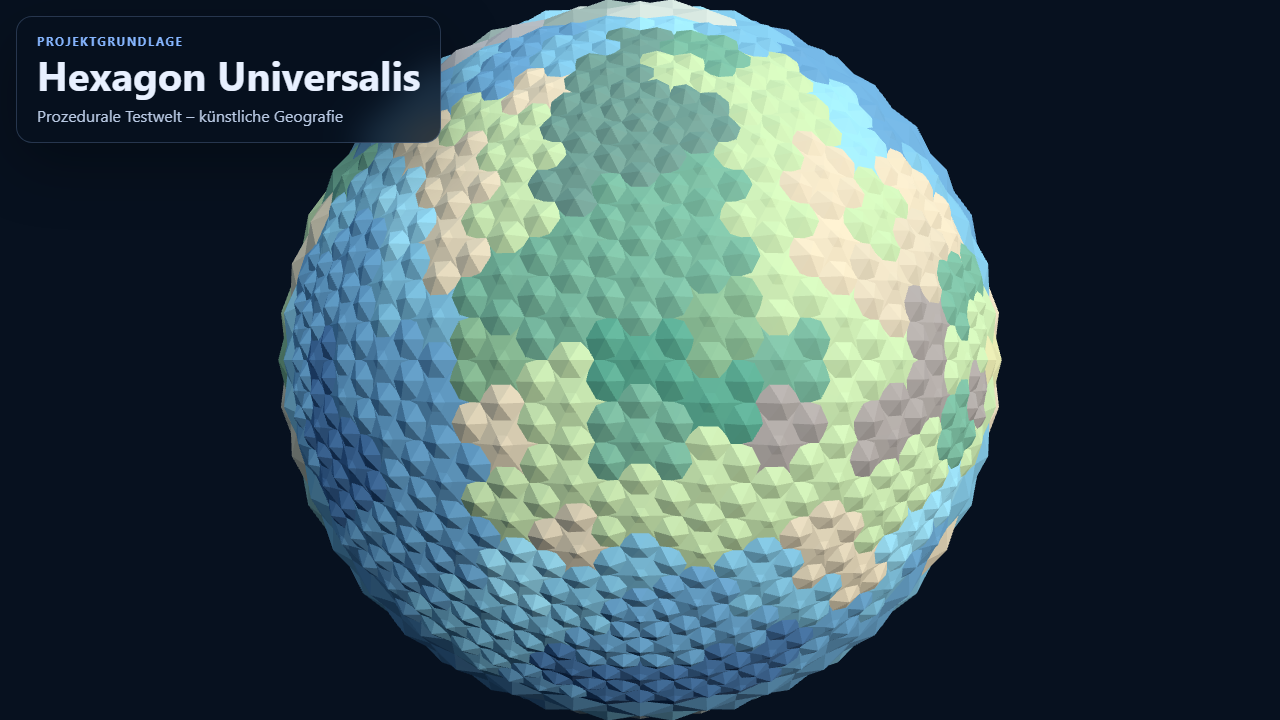
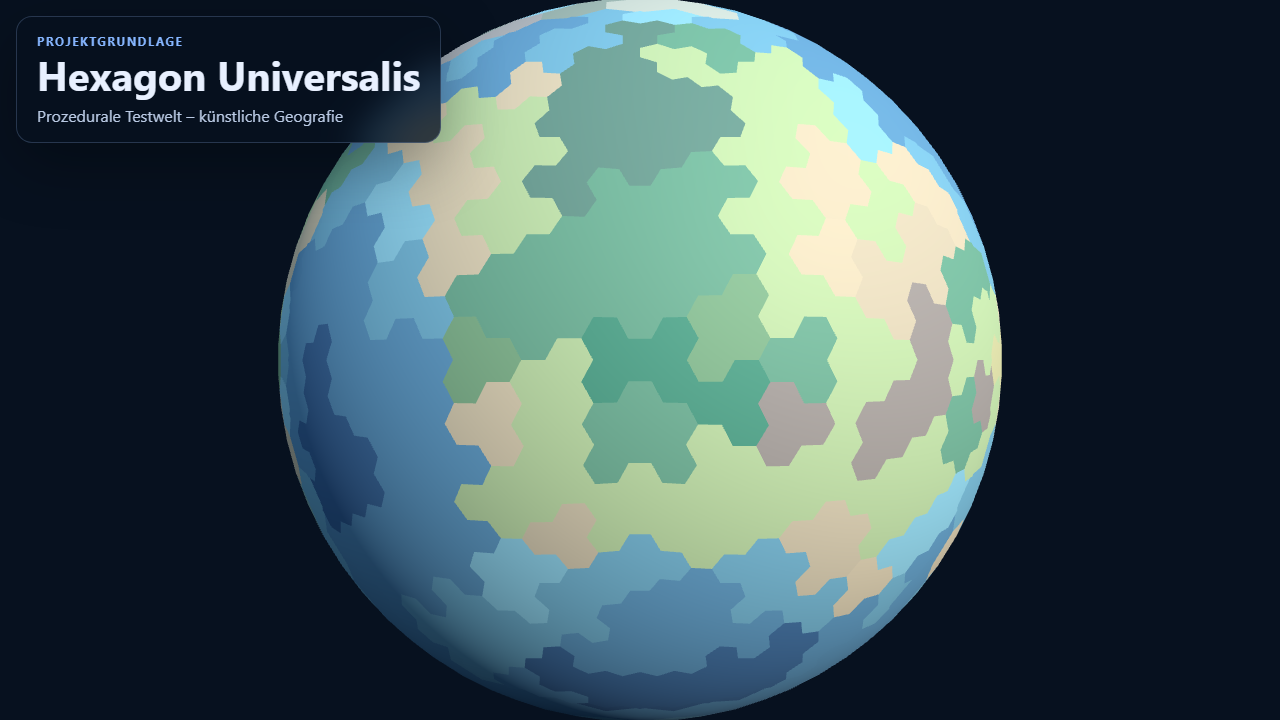
fix: flatten local LOD cell surfaces

Changed region(s): [[0.2188, 0.0, 0.7812, 1.0], [0.4688, 0.3056, 0.5312, 0.3667], [0.4688, 0.2139, 0.5312, 0.275]]

diff --git a/tests/cell-globe.test.ts b/tests/cell-globe.test.ts
@@ -21,9 +21,55 @@ describe('createCellGlobeGeometryData', () => {
     expect(data.normals.every(Number.isFinite)).toBe(true);
   });
 
+  it('keeps spherical centers and boundaries on one radius without radial craters', () => {
+    const data = createCellGlobeGeometryData(createGeodesicTopology(2), 2);
+    for (let index = 0; index < data.positions.length; index += 3) {
+      expect(
+        Math.hypot(
+          data.positions[index] ?? 0,
+          data.positions[index + 1] ?? 0,
+          data.positions[index + 2] ?? 0,
+        ),
+      ).toBeCloseTo(2, 6);
+    }
+  });
+
+  it('projects every local tile onto its tangent plane with one stable up normal', () => {
+    const topology = createGeodesicTopology(2);
+    const radius = 2;
+    const data = createCellGlobeGeometryData(topology, radius, undefined, 'tangent-plane');
+
+    for (const [triangleIndex, cellId] of data.cellIds.entries()) {
+      const cell = topology.cellsById.get(cellId);
+      if (cell === undefined) throw new Error(`missing cell ${cellId}`);
+      for (let vertexIndex = 0; vertexIndex < 3; vertexIndex += 1) {
+        const offset = triangleIndex * 9 + vertexIndex * 3;
+        const position = {
+          x: data.positions[offset] ?? 0,
+          y: data.positions[offset + 1] ?? 0,
+          z: data.positions[offset + 2] ?? 0,
+        };
+        const normal = {
+          x: data.normals[offset] ?? 0,
+          y: data.normals[offset + 1] ?? 0,
+          z: data.normals[offset + 2] ?? 0,
+        };
+        expect(dot(position, cell.center)).toBeCloseTo(radius, 6);
+        expect(normal).toEqual(cell.center);
+      }
+    }
+  });
+
   it('rejects invalid radii', () => {
     const topology = createGeodesicTopology(1);
     expect(() => createCellGlobeGeometryData(topology, 0)).toThrow(RangeError);
     expect(() => createCellGlobeGeometryData(topology, Number.NaN)).toThrow(RangeError);
   });
 });
+
+function dot(
+  first: { readonly x: number; readonly y: number; readonly z: number },
+  second: { readonly x: number; readonly y: number; readonly z: number },
+): number {
+  return first.x * second.x + first.y * second.y + first.z * second.z;
+}

diff --git a/src/rendering/CellGlobe.ts b/src/rendering/CellGlobe.ts
@@ -12,12 +12,13 @@ export interface CellGlobeGeometryData {
   readonly triangleCount: number;
 }
 
-const CELL_GAP_FACTOR = 0.985;
+export type CellSurfaceMode = 'spherical' | 'tangent-plane';
 
 export function createCellGlobeGeometryData(
   topology: GeodesicTopology,
   radius = topology.radius,
   cellColors?: ReadonlyMap<string, string>,
+  surfaceMode: CellSurfaceMode = 'spherical',
 ): CellGlobeGeometryData {
   if (!Number.isFinite(radius) || radius <= 0)
     throw new RangeError('radius muss größer als 0 sein.');
@@ -30,14 +31,15 @@ export function createCellGlobeGeometryData(
   for (const cell of topology.cells) {
     for (let index = 0; index < cell.boundary.length; index += 1) {
       const nextIndex = (index + 1) % cell.boundary.length;
-      const first = scale(at(cell.boundary, index), CELL_GAP_FACTOR);
-      const second = scale(at(cell.boundary, nextIndex), CELL_GAP_FACTOR);
       const center = cell.center;
+      const first = surfacePoint(at(cell.boundary, index), center, surfaceMode);
+      const second = surfacePoint(at(cell.boundary, nextIndex), center, surfaceMode);
       const normal = triangleNormal(center, first, second);
       const triangle = dot(normal, center) >= 0 ? [center, first, second] : [center, second, first];
       for (const vertex of triangle) {
         positions.push(vertex.x * radius, vertex.y * radius, vertex.z * radius);
-        normals.push(vertex.x, vertex.y, vertex.z);
+        const vertexNormal = surfaceMode === 'tangent-plane' ? center : vertex;
+        normals.push(vertexNormal.x, vertexNormal.y, vertexNormal.z);
         if (cellColors !== undefined)
           colors.push(...hexToRgb(cellColors.get(cell.id) ?? '#173b68'));
       }
@@ -74,7 +76,7 @@ export function createCellGlobeMesh(
 
   const material = new THREE.MeshStandardMaterial({
     color: cellColors !== undefined ? 0xffffff : 0x4f8cff,
-    flatShading: true,
+    flatShading: false,
     roughness: 0.72,
     metalness: 0.08,
     side: THREE.FrontSide,
@@ -87,8 +89,14 @@ export function createCellGlobeMesh(
   return mesh;
 }
 
-function scale(vector: Vector3, factor: number): Vector3 {
-  return { x: vector.x * factor, y: vector.y * factor, z: vector.z * factor };
+function surfacePoint(boundary: Vector3, center: Vector3, surfaceMode: CellSurfaceMode): Vector3 {
+  if (surfaceMode === 'spherical') return boundary;
+  const planeOffset = 1 - dot(boundary, center);
+  return {
+    x: boundary.x + center.x * planeOffset,
+    y: boundary.y + center.y * planeOffset,
+    z: boundary.z + center.z * planeOffset,
+  };
 }
 
 function subtract(first: Vector3, second: Vector3): Vector3 {

diff --git a/src/rendering/ChunkRenderer.ts b/src/rendering/ChunkRenderer.ts
@@ -110,6 +110,7 @@ export class ChunkRenderer {
       topology,
       this.radius + unit.level * 0.003,
       this.cellColors,
+      unit.level === 2 ? 'tangent-plane' : 'spherical',
     );
 
     const geometry = new THREE.BufferGeometry();
@@ -121,7 +122,7 @@ export class ChunkRenderer {
 
     const material = new THREE.MeshStandardMaterial({
       color: this.cellColors !== undefined ? 0xffffff : 0x4f8cff,
-      flatShading: true,
+      flatShading: false,
       roughness: 0.72,
       metalness: 0.08,
       side: THREE.FrontSide,

diff --git a/docs/procedural-world-lod.md b/docs/procedural-world-lod.md
@@ -21,6 +21,12 @@ global beziehungsweise regional. Die Fallbackfläche schließt die nicht deckung
 der Voronoi-Stufen, ohne schwarze Löcher. Picking kann anhand des Levels immer das oberste Tile
 priorisieren.
 
+Die Lokalstufe verwendet zusätzlich echte Tangentialflächen: Jeder geodätische Randpunkt wird
+auf die Tangentialebene am Zellzentrum projiziert. Mittelpunkt und sämtliche Randpunkte eines
+Hexagons sind damit koplanar und teilen dieselbe nach außen gerichtete Normale. Das Zellzentrum
+und diese Normale bilden den stabilen lokalen Frame für spätere Bäume, Berge, Gebäude und andere
+Modelle. Global und Regional behalten ihre kugelförmige Oberfläche.
+
 ## Dichte-, Schwellen- und Budgetprofile
 
 Die ausgewählte Dichte bezeichnet die globale Referenzauflösung aus #77. Regional und Lokal
@@ -55,6 +61,7 @@ veraltete Ergebnisse zu erkennen; die heutige Generierung selbst ist synchron.
 
 Automatisierte Tests decken alle drei erreichbaren Stufen, deterministische stufenübergreifende
 Referenzwerte, strikt sinkende mittlere Zellradien, selektive Sichtfeld-Overlays, qualifizierte
-Picking-IDs, Hysterese, Cacheinvalidierung und Dispose ab. Im Browser kann die aktive Stufe für E2E- und
+Picking-IDs, koplanare Lokalvertices mit einheitlicher Flächennormale, Hysterese,
+Cacheinvalidierung und Dispose ab. Im Browser kann die aktive Stufe für E2E- und
 Diagnosezwecke über `canvas[data-lod-level]` gelesen werden. Das sichtbare Bedienpanel folgt in
 #79; vollständiges Terrainrelief und Detailrendering folgen in #80.